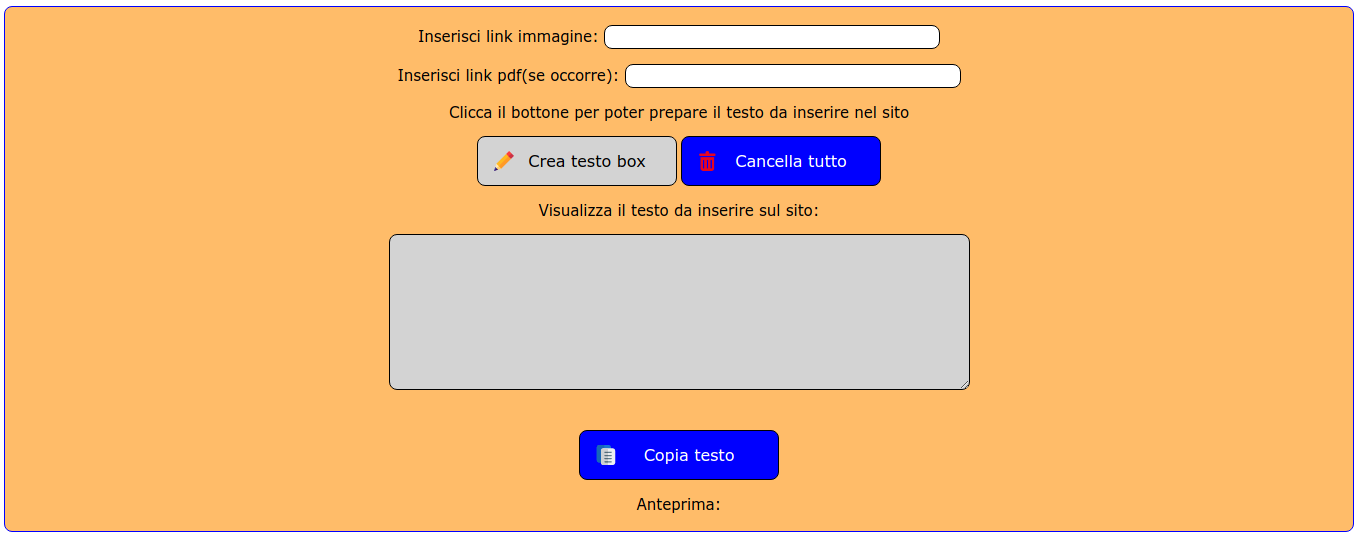
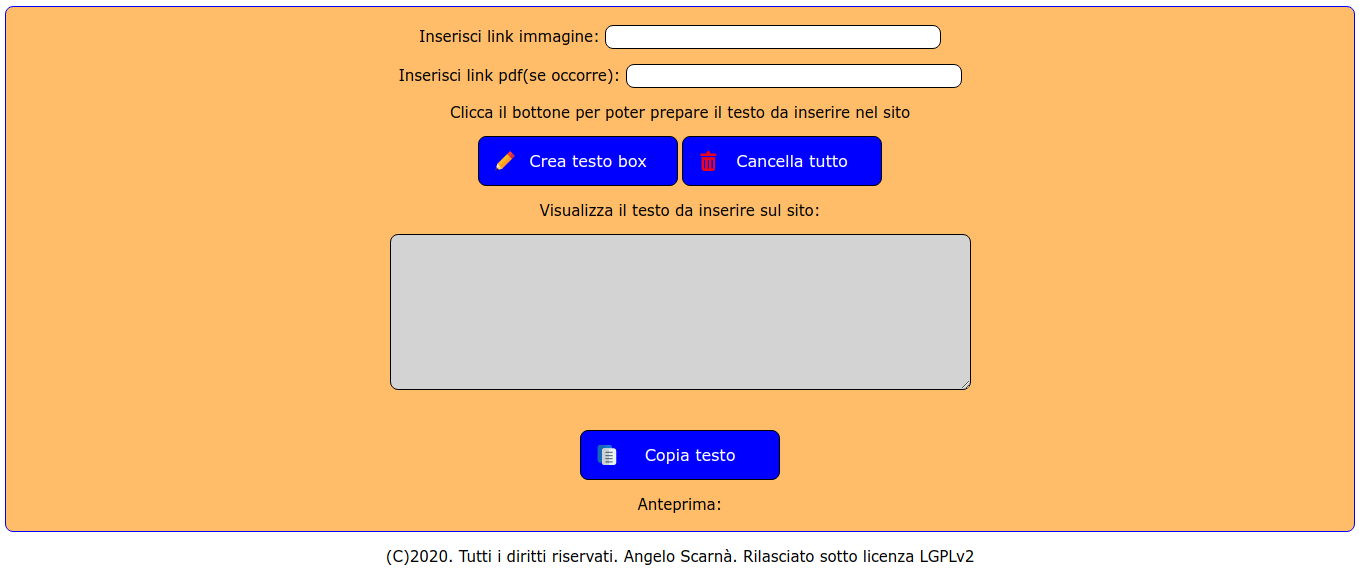
CreazioneBoxHtml 0.1

Changed region(s): [[0.0, 0.0, 1.0, 1.0], [0.2781, 0.6555, 0.7108, 0.8939], [0.2781, 0.1192, 0.4636, 0.149]]

diff --git a/creazione_box.html b/creazione_box.html
@@ -22,6 +22,7 @@
 <center><p class="label" id="anteprima"><p class="label"></center>
 </tr></td></table></center>
 
+<p align="center" class="label">(C)2020. Tutti i diritti riservati. Angelo Scarnà. Rilasciato sotto licenza LGPLv2</p>
 
 </body>
 </html>

diff --git a/script/script.js b/script/script.js
@@ -1,3 +1,5 @@
+//Script realizzato da Angelo Scarnà
+//Rilasciato sotto licenza LGPLv2
 function testoBox() {
   var valoreImg = document.getElementById("textImmagine").value;
   if(valoreImg == "")

diff --git a/css/style.css b/css/style.css
@@ -1,3 +1,5 @@
+/*Script realizzato da Angelo Scarnà
+Rilasciato sotto licenza LGPLv2*/
 button {
   background-color: blue;
   border: 1px solid black;

diff --git a/README.md b/README.md
@@ -7,7 +7,7 @@ all'interno di siti web preparati con "Porte aperte sul web".
 
 ------------------------------------------------------------------------
 
-(C) 2020. Angelo Scarnà
+(C) 2020. Angelo Scarnà. Rilasciato sotto licenza LGPLv2.
 
 ------------------------------------------------------------------------
 
